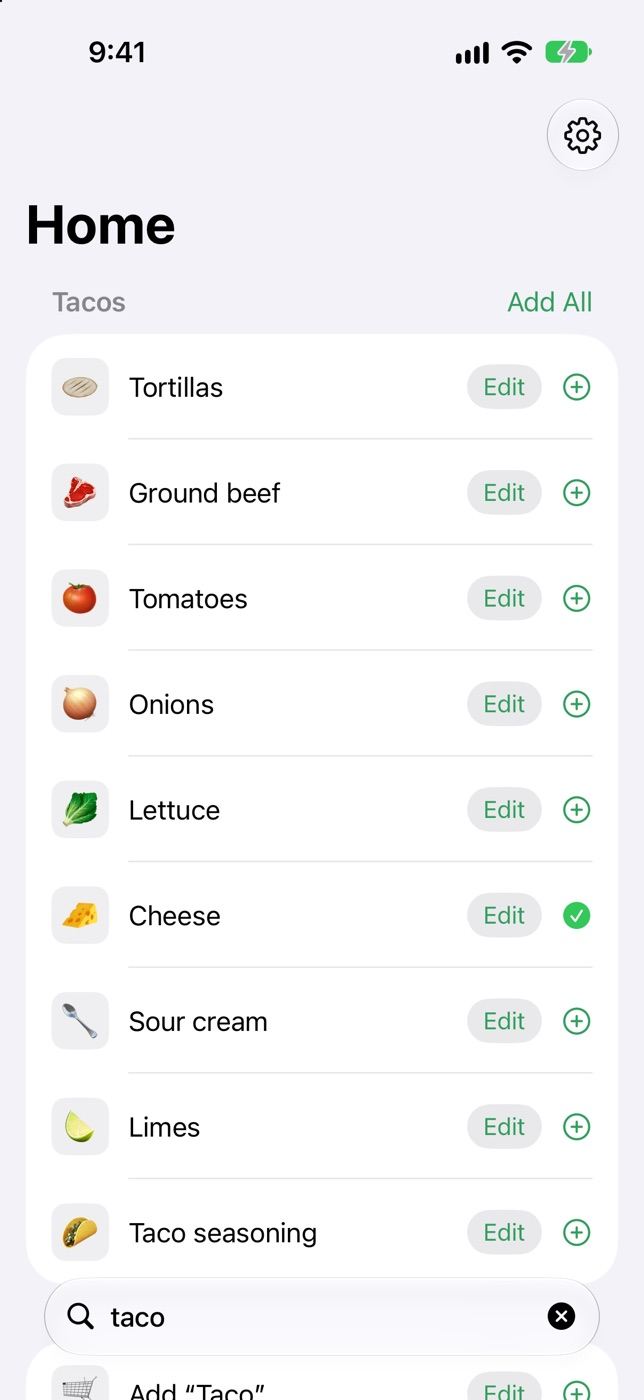
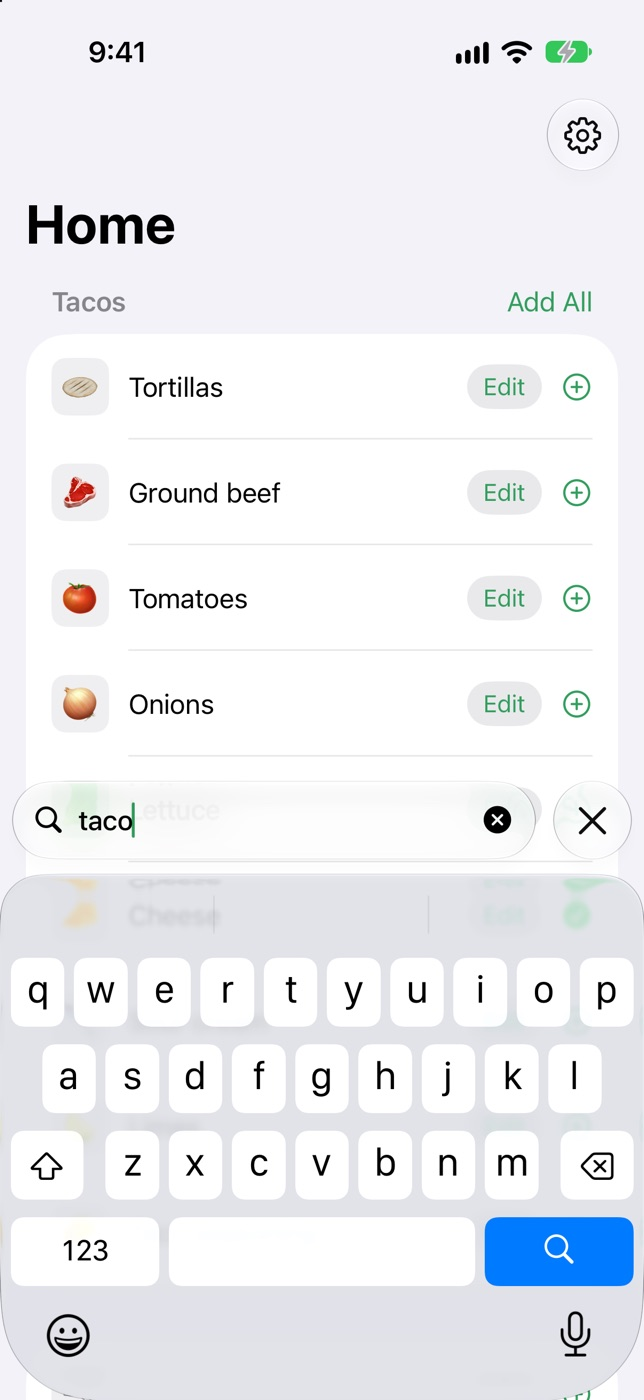
Show the keyboard in search screenshots, and fuller banana bread suggestions

diff --git a/kitchen-sync/index.html b/kitchen-sync/index.html
@@ -76,7 +76,7 @@
       <div class="wrap">
         <div class="spotlights">
           <div class="spotlight">
-            <img src="/kitchen-sync/images/typos.jpg" alt="Searching for sause finds Pasta sauce, Sausages and Soy sauce" loading="lazy">
+            <img src="/kitchen-sync/images/typos.jpg" alt="Typing sause finds Pasta sauce, Sausages and Soy sauce" loading="lazy">
             <div>
               <h3>Close enough is good enough</h3>
               <p>Type “sause” and Kitchen Sync still finds Pasta sauce and Soy sauce. A missed letter or a quick misspelling never stands between you and what you need.</p>
@@ -104,7 +104,7 @@
             </div>
           </div>
           <div class="spotlight">
-            <img src="/kitchen-sync/images/suggested-ingredients.jpg" alt="A Banana bread recipe with suggested ingredients: flour, sugar, bananas and butter" loading="lazy">
+            <img src="/kitchen-sync/images/suggested-ingredients.jpg" alt="A Banana bread recipe with suggested ingredients: bananas, flour, sugar, butter, eggs and vanilla" loading="lazy">
             <div>
               <h3>Ingredients, suggested</h3>
               <p>Name a recipe and Apple Intelligence suggests what to buy for it, matched to the items your household already uses. Tap the ones you want.</p>
